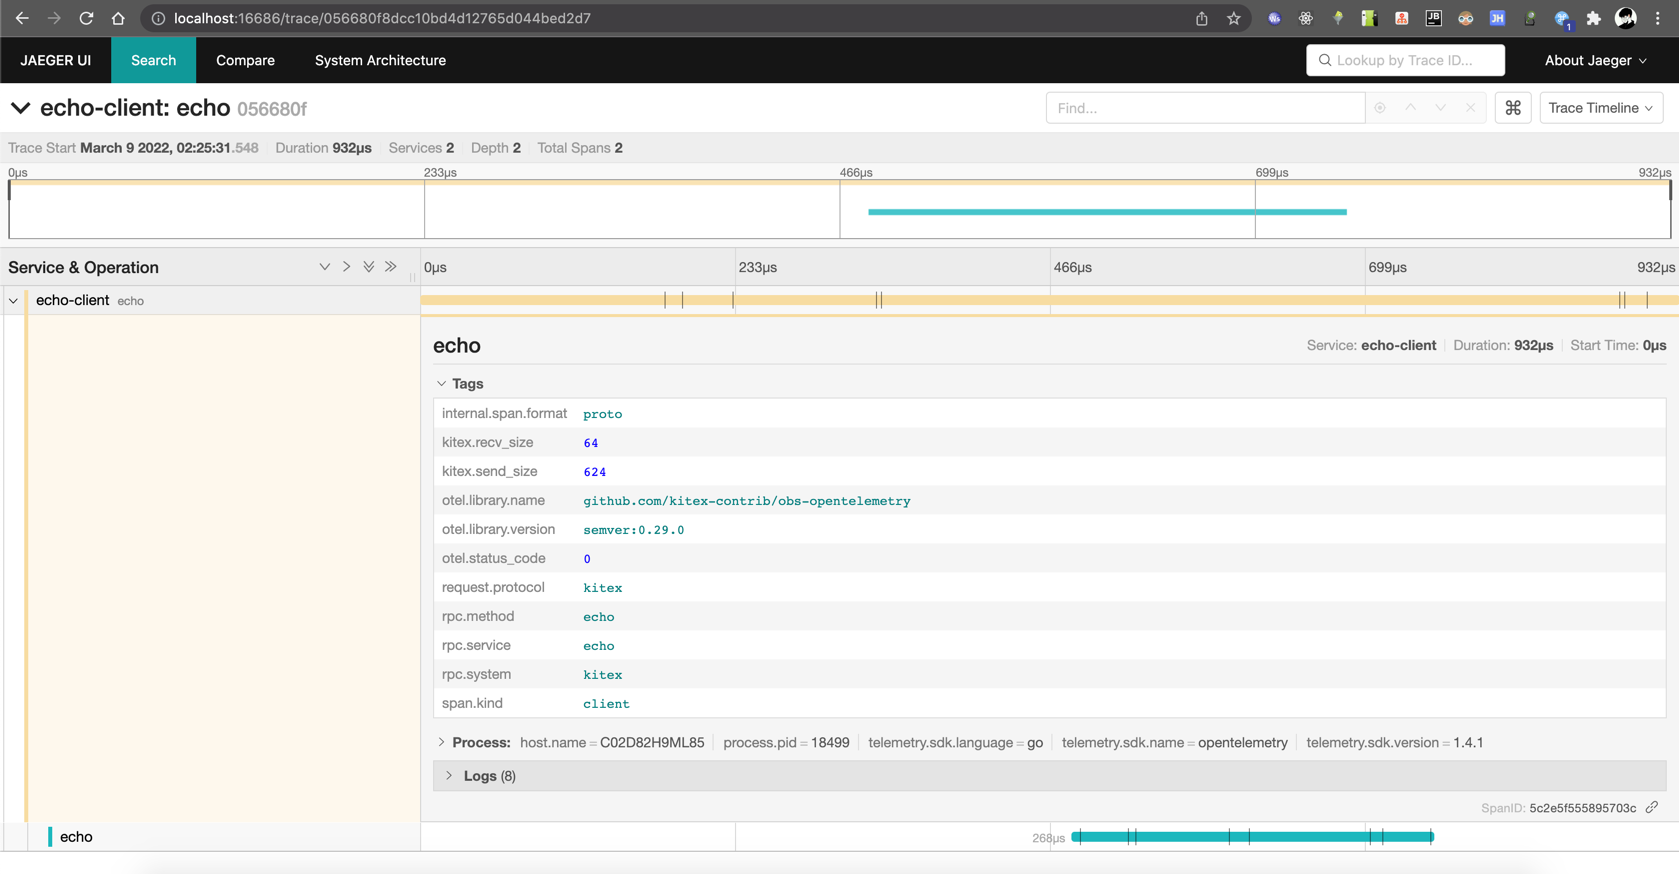
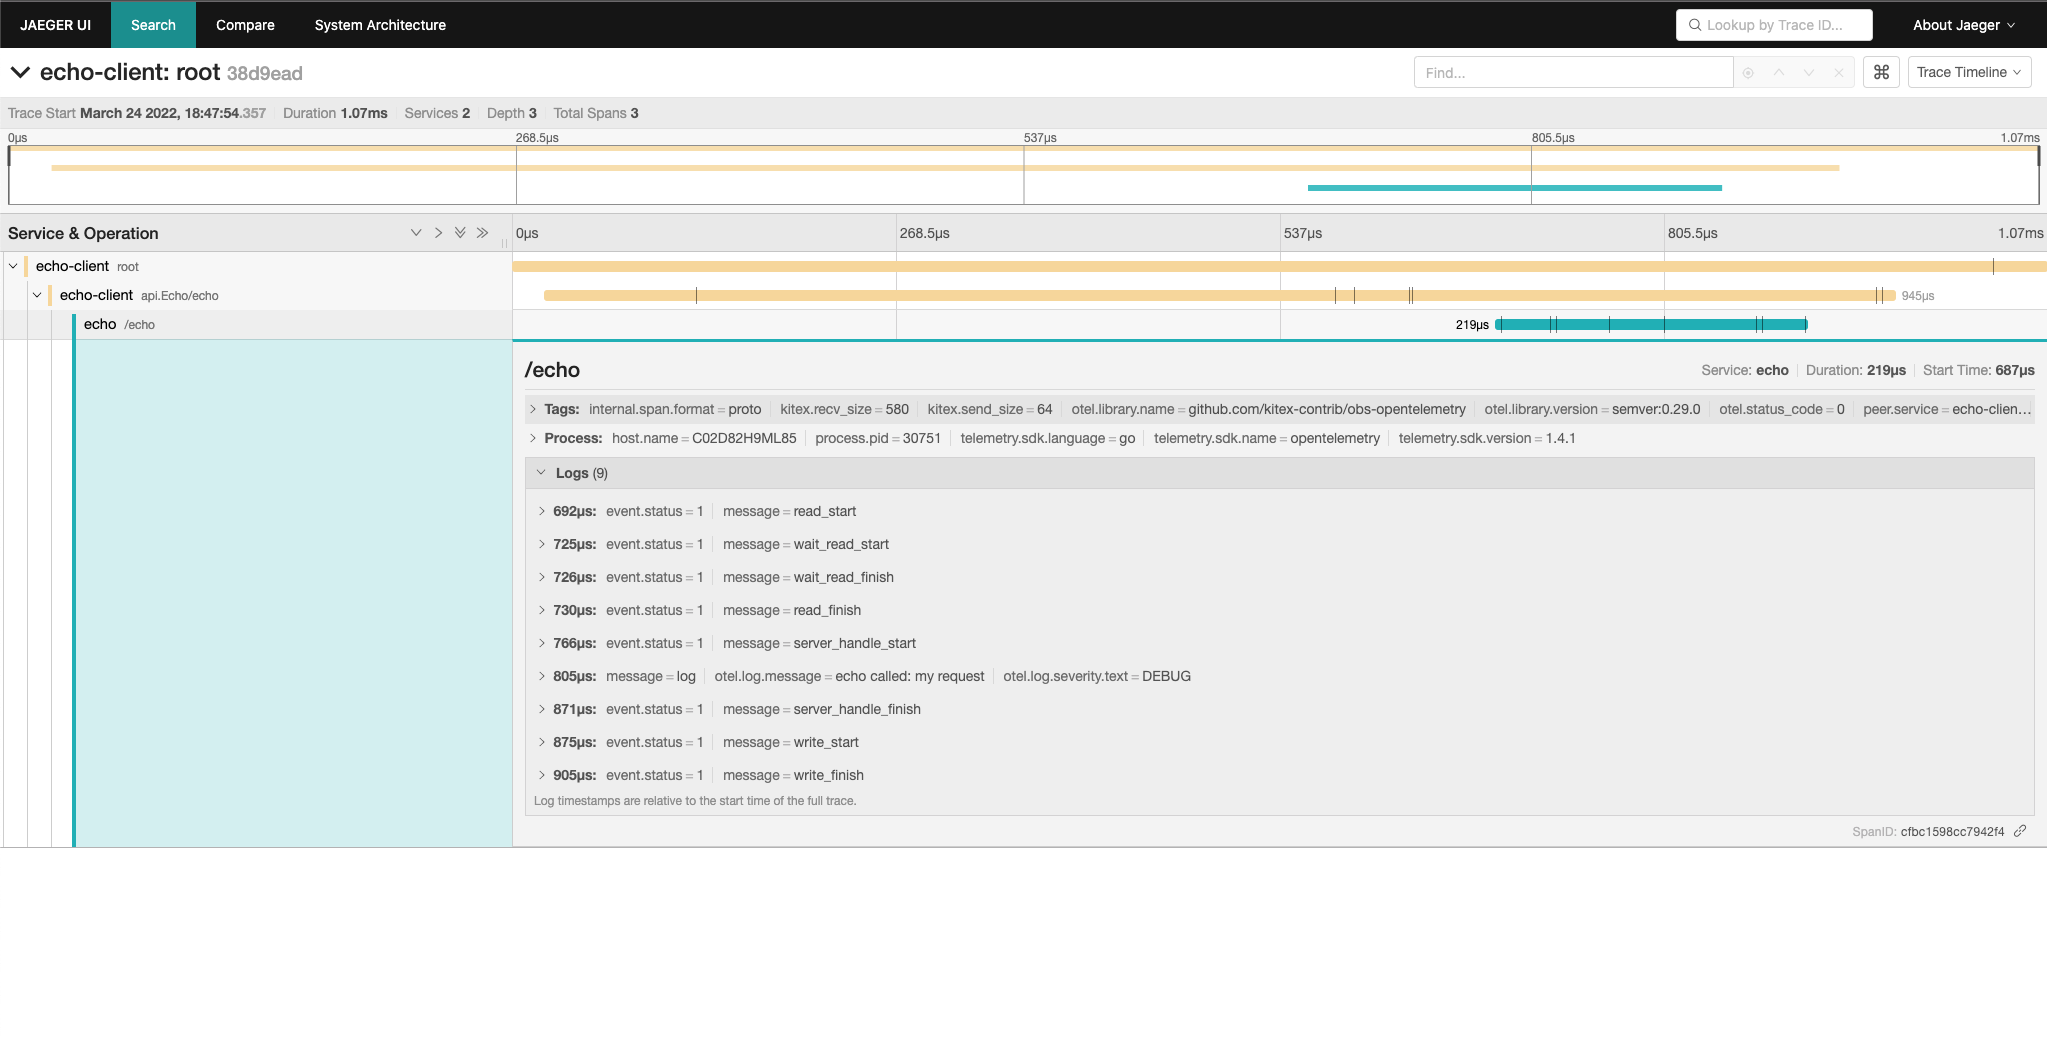
feat(opentelemetry): add sample code for opentelemetry

diff --git a/opentelemetry/client/main.go b/opentelemetry/client/main.go
@@ -1,46 +1,80 @@
+// Copyright 2021 CloudWeGo Authors
+//
+// Licensed under the Apache License, Version 2.0 (the "License");
+// you may not use this file except in compliance with the License.
+// You may obtain a copy of the License at
+//
+//     http://www.apache.org/licenses/LICENSE-2.0
+//
+// Unless required by applicable law or agreed to in writing, software
+// distributed under the License is distributed on an "AS IS" BASIS,
+// WITHOUT WARRANTIES OR CONDITIONS OF ANY KIND, either express or implied.
+// See the License for the specific language governing permissions and
+// limitations under the License.
+//
+
 package main
 
 import (
 	"context"
+	"os"
 	"time"
 
 	"github.com/cloudwego/kitex-examples/kitex_gen/api"
 	"github.com/cloudwego/kitex-examples/kitex_gen/api/echo"
 	"github.com/cloudwego/kitex/client"
 	"github.com/cloudwego/kitex/pkg/klog"
+	"github.com/cloudwego/kitex/pkg/rpcinfo"
 	kitexlogrus "github.com/kitex-contrib/obs-opentelemetry/logging/logrus"
 	"github.com/kitex-contrib/obs-opentelemetry/provider"
 	"github.com/kitex-contrib/obs-opentelemetry/tracing"
+	"go.opentelemetry.io/otel"
 )
 
 func main() {
 	klog.SetLogger(kitexlogrus.NewLogger())
 	klog.SetLevel(klog.LevelDebug)
 
+	serviceName := "echo-client"
+
 	p := provider.NewOpenTelemetryProvider(
-		provider.WithServiceName("echo-client"),
-		provider.WithExportEndpoint("host.docker.internal:4317"),
+		provider.WithServiceName(serviceName),
+		// Support setting ExportEndpoint via environment variables: OTEL_EXPORTER_OTLP_ENDPOINT
+		//provider.WithExportEndpoint("host.docker.internal:4317"),
+		provider.WithInsecure(),
 	)
 	defer p.Shutdown(context.Background())
 
+	demoServerAddr, ok := os.LookupEnv("DEMO_SERVER_ENDPOINT")
+	if !ok {
+		demoServerAddr = "0.0.0.0:8181"
+	}
+
 	c, err := echo.NewClient(
 		"echo",
-		client.WithHostPorts("0.0.0.0:8181"),
-		client.WithSuite(tracing.NewClientSuite(
-			tracing.WithStackTrace(true),
-		)),
+		client.WithHostPorts(demoServerAddr),
+		client.WithSuite(tracing.NewClientSuite()),
+		client.WithClientBasicInfo(&rpcinfo.EndpointBasicInfo{ServiceName: serviceName}),
 	)
 	if err != nil {
 		klog.Fatal(err)
 	}
 
 	for {
-		req := &api.Request{Message: "my request"}
-		resp, err := c.Echo(context.Background(), req)
-		if err != nil {
-			klog.Fatal(err)
-		}
-		klog.Info(resp)
-		time.Sleep(time.Second)
+		call(c)
+		<-time.After(time.Second)
 	}
+}
+
+func call(c echo.Client) {
+	ctx, span := otel.Tracer("client").Start(context.Background(), "root")
+	defer span.End()
+
+	req := &api.Request{Message: "my request"}
+	resp, err := c.Echo(ctx, req)
+	if err != nil {
+		klog.CtxErrorf(ctx, "err %v", err)
+	}
+
+	klog.CtxInfof(ctx, "req:%v, res:%v", req, resp)
 }

diff --git a/opentelemetry/server/main.go b/opentelemetry/server/main.go
@@ -1,12 +1,30 @@
+// Copyright 2021 CloudWeGo Authors
+//
+// Licensed under the Apache License, Version 2.0 (the "License");
+// you may not use this file except in compliance with the License.
+// You may obtain a copy of the License at
+//
+//     http://www.apache.org/licenses/LICENSE-2.0
+//
+// Unless required by applicable law or agreed to in writing, software
+// distributed under the License is distributed on an "AS IS" BASIS,
+// WITHOUT WARRANTIES OR CONDITIONS OF ANY KIND, either express or implied.
+// See the License for the specific language governing permissions and
+// limitations under the License.
+//
+
 package main
 
 import (
 	"context"
+	"errors"
 	"net"
+	"time"
 
 	"github.com/cloudwego/kitex-examples/kitex_gen/api"
 	"github.com/cloudwego/kitex-examples/kitex_gen/api/echo"
 	"github.com/cloudwego/kitex/pkg/klog"
+	"github.com/cloudwego/kitex/pkg/rpcinfo"
 	"github.com/cloudwego/kitex/server"
 	kitexlogrus "github.com/kitex-contrib/obs-opentelemetry/logging/logrus"
 	"github.com/kitex-contrib/obs-opentelemetry/provider"
@@ -20,6 +38,15 @@ type EchoImpl struct{}
 // Echo implements the Echo interface.
 func (s *EchoImpl) Echo(ctx context.Context, req *api.Request) (resp *api.Response, err error) {
 	klog.CtxDebugf(ctx, "echo called: %s", req.GetMessage())
+	nowSec := time.Now().Second()
+	if nowSec%3 == 1 {
+		klog.CtxErrorf(ctx, "mock error %s", req.GetMessage())
+		return nil, errors.New("mock error")
+	}
+	if nowSec%3 == 2 {
+		klog.CtxErrorf(ctx, "mock panic %s", req.GetMessage())
+		panic("mock panic")
+	}
 	return &api.Response{Message: req.Message}, nil
 }
 
@@ -27,9 +54,12 @@ func main() {
 	klog.SetLogger(kitexlogrus.NewLogger())
 	klog.SetLevel(klog.LevelDebug)
 
+	serviceName := "echo"
+
 	p := provider.NewOpenTelemetryProvider(
-		provider.WithServiceName("echo"),
+		provider.WithServiceName(serviceName),
 		provider.WithExportEndpoint("host.docker.internal:4317"),
+		provider.WithInsecure(),
 	)
 	defer p.Shutdown(context.Background())
 
@@ -39,8 +69,9 @@ func main() {
 	}
 	svr := echo.NewServer(
 		new(EchoImpl),
-		server.WithSuite(tracing.NewServerSuite()),
 		server.WithServiceAddr(addr),
+		server.WithSuite(tracing.NewServerSuite()),
+		server.WithServerBasicInfo(&rpcinfo.EndpointBasicInfo{ServiceName: serviceName}),
 	)
 	if err := svr.Run(); err != nil {
 		klog.Fatalf("server stopped with error:", err)
